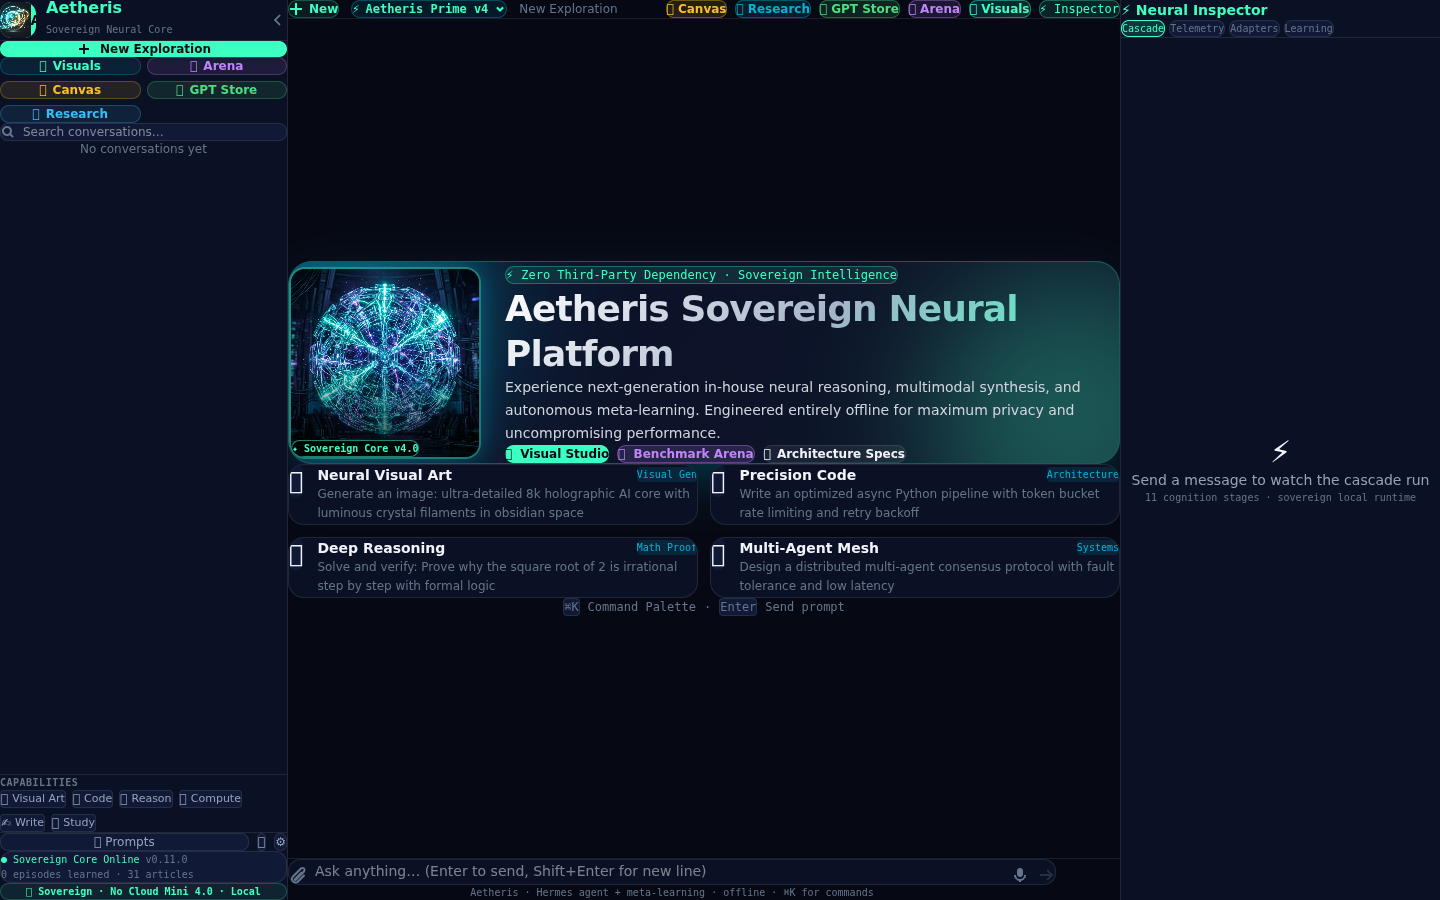
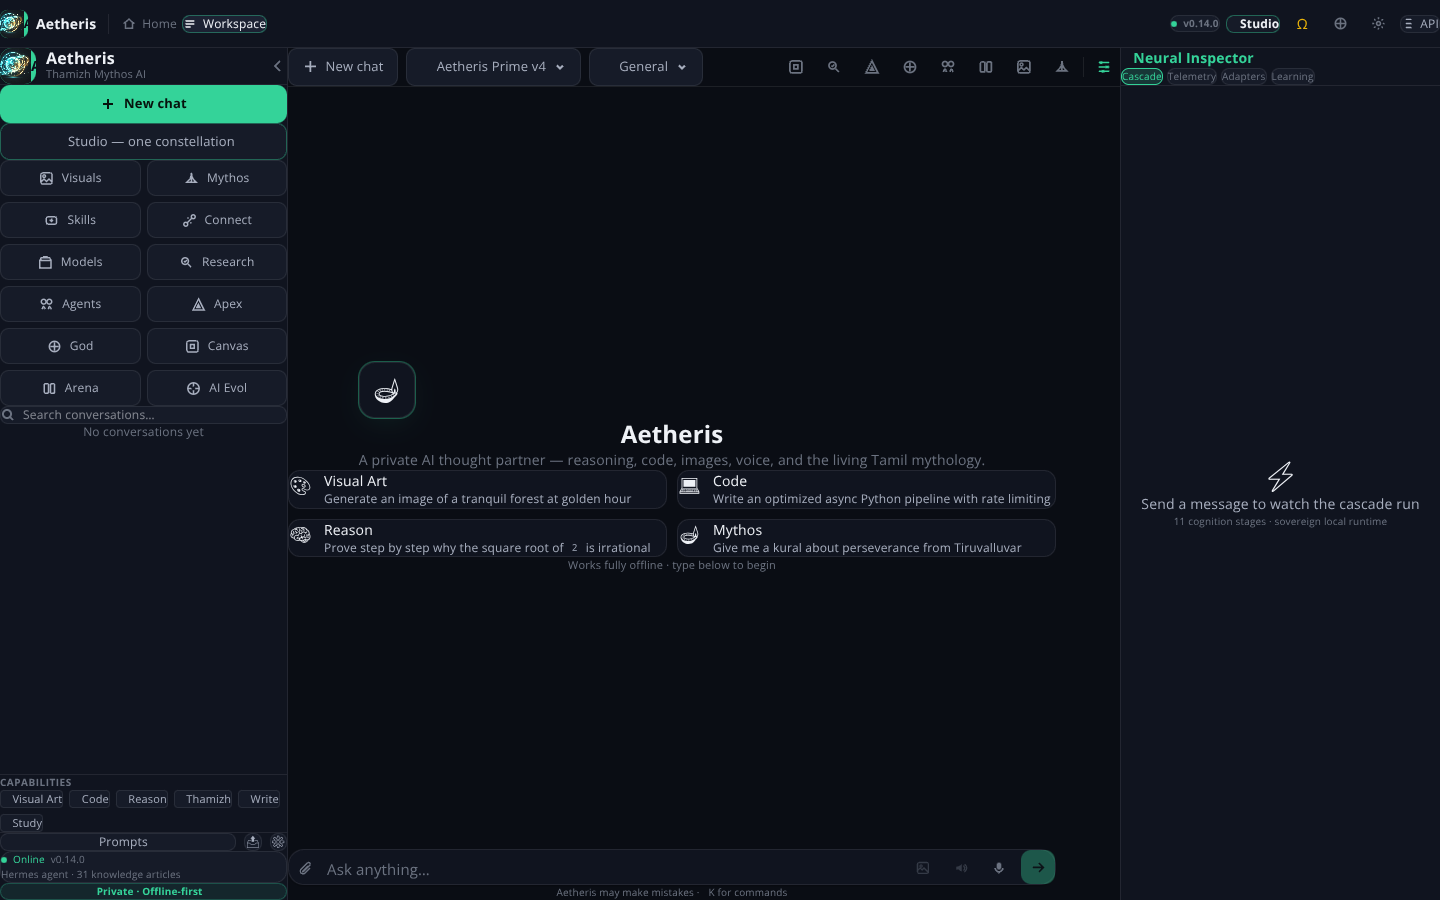
docs: add installation guide and refresh screenshots

diff --git a/README.md b/README.md
@@ -230,54 +230,170 @@ Hermes runtime stays available at `/v1/hermes/*` either way.
 One application served by the single FastAPI process — no separate frontend
 server required.
 
-![Aetheris application — Sovereign Neural Platform chat home](screenshots/aetheris-home.png)
+![Aetheris application — unified chat workspace](screenshots/aetheris-home.png)
 
-*The Workspace view: the chat interface with capability tiles
-(Visual Art, Code, Reason, Compute, Write, Study), the prompt library, and the
-live Sovereign Core status.*
+*The Workspace view: offline Hermes chat, model and mode controls, capability
+launchers, prompt cards, and the live Neural Inspector in one shell.*
 
-![Aetheris landing page](screenshots/aetheris-landing.png)
+![Aetheris unified Home view](screenshots/aetheris-landing.png)
 
-*The Home view (formerly the standalone `/landing` page): architecture
-visualization, model tiers, and copy-ready API examples — now reachable in-app
-from the shared top navigation.*
+*The Home view: “Every surface. One constellation.” brings Mythos, visuals,
+research, agents, models, skills, and Studio into the same application as the
+Workspace.*
 
 ---
 
-## Quickstart
+## Installation (step by step)
 
-Requires Python 3.11+.
+Aetheris runs as one Python process. Node.js is only used once to build the web
+interface; it is not needed while the finished application is running. The
+default Hermes provider works offline and does not require an API key.
 
-Requires Python 3.11+ (and Node 20+ once, to build the UI).
+### 1. Install the prerequisites
+
+Install these tools before continuing:
+
+| Tool | Required version | Used for |
+|------|------------------|----------|
+| [Git](https://git-scm.com/downloads) | Any current version | Downloading the repository |
+| [Python](https://www.python.org/downloads/) | 3.11 or newer | API, Hermes runtime, and CLI |
+| [Node.js](https://nodejs.org/) | 20.9 or newer (includes npm) | Building the web interface |
+
+Confirm that they are available:
 
 ```bash
-# 1. Create a virtual environment and install dependencies
-python3 -m venv .venv
-.venv/bin/pip install -r requirements.txt
-
-# 2. Build the web UI once (static export served by Python)
-cd aurion && npm install && npm run build && cd ..
-
-# 3. Run the whole app — UI + API, one process, one port
-.venv/bin/uvicorn aetheris.main:app --host 0.0.0.0 --port 8000
+git --version
+python3 --version
+node --version
+npm --version
 ```
 
-That's it. No API key, no network, no Node at runtime.
+On Windows, use `py --version` if `python3` is not available.
 
-Then open:
+### 2. Clone the repository
 
-- `http://localhost:8000/` — **the application** (Home view; switch to the Workspace from the top nav)
-- `http://localhost:8000/docs` — interactive OpenAPI docs
-- `http://localhost:8000/v1/hermes` — the Hermes runtime manifest
+```bash
+git clone https://github.com/rajaram-2005/Aetheris.git
+cd Aetheris
+```
 
-`/landing` now redirects to `/` — the old landing content lives in the app as
-its **Home** view (`/#home`), with the chat as the **Workspace** (`/#workspace`).
+If you already downloaded or cloned Aetheris, open a terminal in its root
+folder—the folder containing `pyproject.toml`—and continue with step 3.
 
-### Optional configuration
+### 3. Create and activate a Python virtual environment
+
+**macOS or Linux:**
+
+```bash
+python3 -m venv .venv
+source .venv/bin/activate
+```
+
+**Windows PowerShell:**
+
+```powershell
+py -3 -m venv .venv
+.\.venv\Scripts\Activate.ps1
+```
+
+Your terminal prompt will usually begin with `(.venv)`. Keep this environment
+activated for the remaining steps and whenever you run Aetheris later.
+
+### 4. Install Aetheris and its Python dependencies
+
+Run this from the repository root:
+
+```bash
+python -m pip install --upgrade pip
+python -m pip install -e .
+```
+
+The editable install downloads the dependencies declared in `pyproject.toml`
+and registers the `aetheris` command in the virtual environment.
+
+### 5. Build the web interface
+
+```bash
+cd aurion
+npm ci
+npm run build
+cd ..
+```
+
+The build creates `aurion/out`, which the Python server serves automatically.
+`npm ci` uses the committed lockfile, so every installation receives the same
+frontend dependency versions.
+
+### 6. Configure Aetheris (optional)
+
+No configuration is required for the offline Hermes provider. To customize the
+server or connect an upstream provider, first create a local `.env` file:
+
+**macOS or Linux:**
 
 ```bash
 cp .env.example .env
 ```
+
+**Windows PowerShell:**
+
+```powershell
+Copy-Item .env.example .env
+```
+
+Then edit `.env` and restart Aetheris after any change. Do not commit API keys.
+The most commonly used settings are listed under
+[Optional configuration](#optional-configuration).
+
+### 7. Start the application
+
+```bash
+aetheris serve --host 0.0.0.0 --port 8000
+```
+
+If the `aetheris` command is not found, make sure the virtual environment is
+active, or run the equivalent command:
+
+```bash
+python -m aetheris serve --host 0.0.0.0 --port 8000
+```
+
+Keep this terminal open while using Aetheris. Press `Ctrl+C` to stop it.
+
+### 8. Verify the installation
+
+Open these URLs in a browser:
+
+- `http://localhost:8000/` — **the application** (Home and Workspace views)
+- `http://localhost:8000/docs` — interactive OpenAPI documentation
+- `http://localhost:8000/v1/hermes` — Hermes runtime manifest
+- `http://localhost:8000/v1/health` — health check
+
+You can also check the server from another terminal:
+
+```bash
+curl http://localhost:8000/v1/health
+```
+
+A JSON response means the installation is running correctly. With the default
+Hermes provider, Aetheris now runs without Node.js, an API key, or a network
+connection. `/landing` redirects to `/`; the old landing content is the Home
+view (`/#home`), and chat is the Workspace (`/#workspace`).
+
+### Troubleshooting installation
+
+| Problem | Fix |
+|---------|-----|
+| `python3` is not found on Windows | Use `py -3` to create the environment, then use `python` after activation. |
+| PowerShell blocks `Activate.ps1` | Run `Set-ExecutionPolicy -Scope Process Bypass`, then activate the environment again. |
+| `aetheris` is not found | Activate `.venv`, then rerun `python -m pip install -e .`. |
+| The home page says the UI is not built | Run step 5 again, restart Aetheris, and reload the page. |
+| Port 8000 is already in use | Start with `aetheris serve --port 8001` and open `http://localhost:8001/`. |
+| `npm ci` reports an engine/version error | Install Node.js 20.9 or newer, then repeat step 5. |
+
+### Optional configuration
+
+After creating `.env` in step 6, change only the settings you need:
 
 | Variable | Effect |
 |----------|--------|
@@ -296,29 +412,31 @@ cp .env.example .env
 
 ### Developing the UI
 
+Activate `.venv`, then run the backend and frontend in separate terminals:
+
 ```bash
-# Terminal 1 — the runtime
-.venv/bin/uvicorn aetheris.main:app --port 8000
-# Terminal 2 — UI with hot reload, proxying /v1 to the runtime
-cd aurion && npm run dev
+# Terminal 1 — backend with Python hot reload
+python -m aetheris serve --port 8000 --reload
+
+# Terminal 2 — UI with hot reload, proxying /v1 to the backend
+cd aurion
+npm run dev
 ```
+
+The development UI is available at `http://localhost:3000/`. Production uses the
+static build from step 5 and only needs port 8000.
 
 ---
 
 ## Command-line interface
 
 Aetheris ships a self-contained `aetheris` command for working with **every tier
-and every mode directly from the command prompt** — no browser, no server
-required. Inference runs in-process via the same provider layer, so it works
-offline with the brand-aware mock engine and transparently uses your
-OpenAI-compatible backend when configured.
+and every mode directly from the command prompt** — no browser or server
+required. Inference runs in-process through the same provider layer, so it works
+offline with Hermes and transparently uses an upstream provider when configured.
 
-Install it (creates the `aetheris` script):
-
-```bash
-.venv/bin/pip install -e .
-# also runnable as: .venv/bin/python -m aetheris <command>
-```
+Step 4 of the installation registers the command. With `.venv` activated, run
+`aetheris <command>` or the equivalent `python -m aetheris <command>`.
 
 ### Commands
 
@@ -1001,15 +1119,15 @@ a `.env` file. See [`.env.example`](.env.example).
 |----------|---------|-------------|
 | `AETHERIS_HOST` | `0.0.0.0` | Bind host. |
 | `AETHERIS_PORT` | `8000` | Bind port. |
-| `AETHERIS_LLM_PROVIDER` | `mock` | `mock` (offline) or `openai`. |
+| `AETHERIS_LLM_PROVIDER` | `hermes` | `hermes`, `openai`, `anthropic`, `gemini`, `mock`, or `neural`. |
 | `AETHERIS_LLM_BASE_URL` | `https://api.openai.com/v1` | OpenAI-compatible base URL. |
-| `AETHERIS_LLM_API_KEY` | *(empty)* | API key for the upstream endpoint. |
-| `AETHERIS_LLM_MODEL` | `aetheris-prime-v4` | Sovereign foundation model. |
+| `AETHERIS_LLM_API_KEY` | *(empty)* | API key for an OpenAI-compatible upstream endpoint. |
+| `AETHERIS_LLM_MODEL` | `aetheris-prime-v4` | Upstream model used when a request does not specify a tier. |
 | `AETHERIS_LLM_TIMEOUT` | `120` | Per-request upstream timeout (seconds). |
 
-> If `AETHERIS_LLM_PROVIDER=openai` is set without an API key, Aetheris logs a
-> warning and falls back to the mock provider so the service stays live and
-> diagnosable rather than failing to start.
+> If a remote provider is selected without its matching API key, Aetheris logs
+> a warning and falls back to the offline Hermes provider so the service stays
+> live and diagnosable rather than failing to start.
 
 ---
 
@@ -1102,10 +1220,12 @@ audience positioning) is available machine-readably at `GET /v1/identity`.
 
 ## Development
 
+With `.venv` activated:
+
 ```bash
-.venv/bin/pip install -e ".[dev]"
-.venv/bin/pytest        # 63 capability + media tests
-.venv/bin/python -m compileall aetheris
+python -m pip install -e ".[dev]"
+python -m pytest
+python -m compileall aetheris
 ```
 
 The suite exercises the real implementations rather than fixtures: the sandbox
@@ -1120,11 +1240,4 @@ The server supports `--reload` for live editing during development.
 ## License
 
 MIT © 2026 RAJARAM K. See [LICENSE](LICENSE).
-
-
-## License
-
-MIT © 2026 RAJARAM K. See [LICENSE](LICENSE).
-
-JARAM K. See [LICENSE](LICENSE).
 
